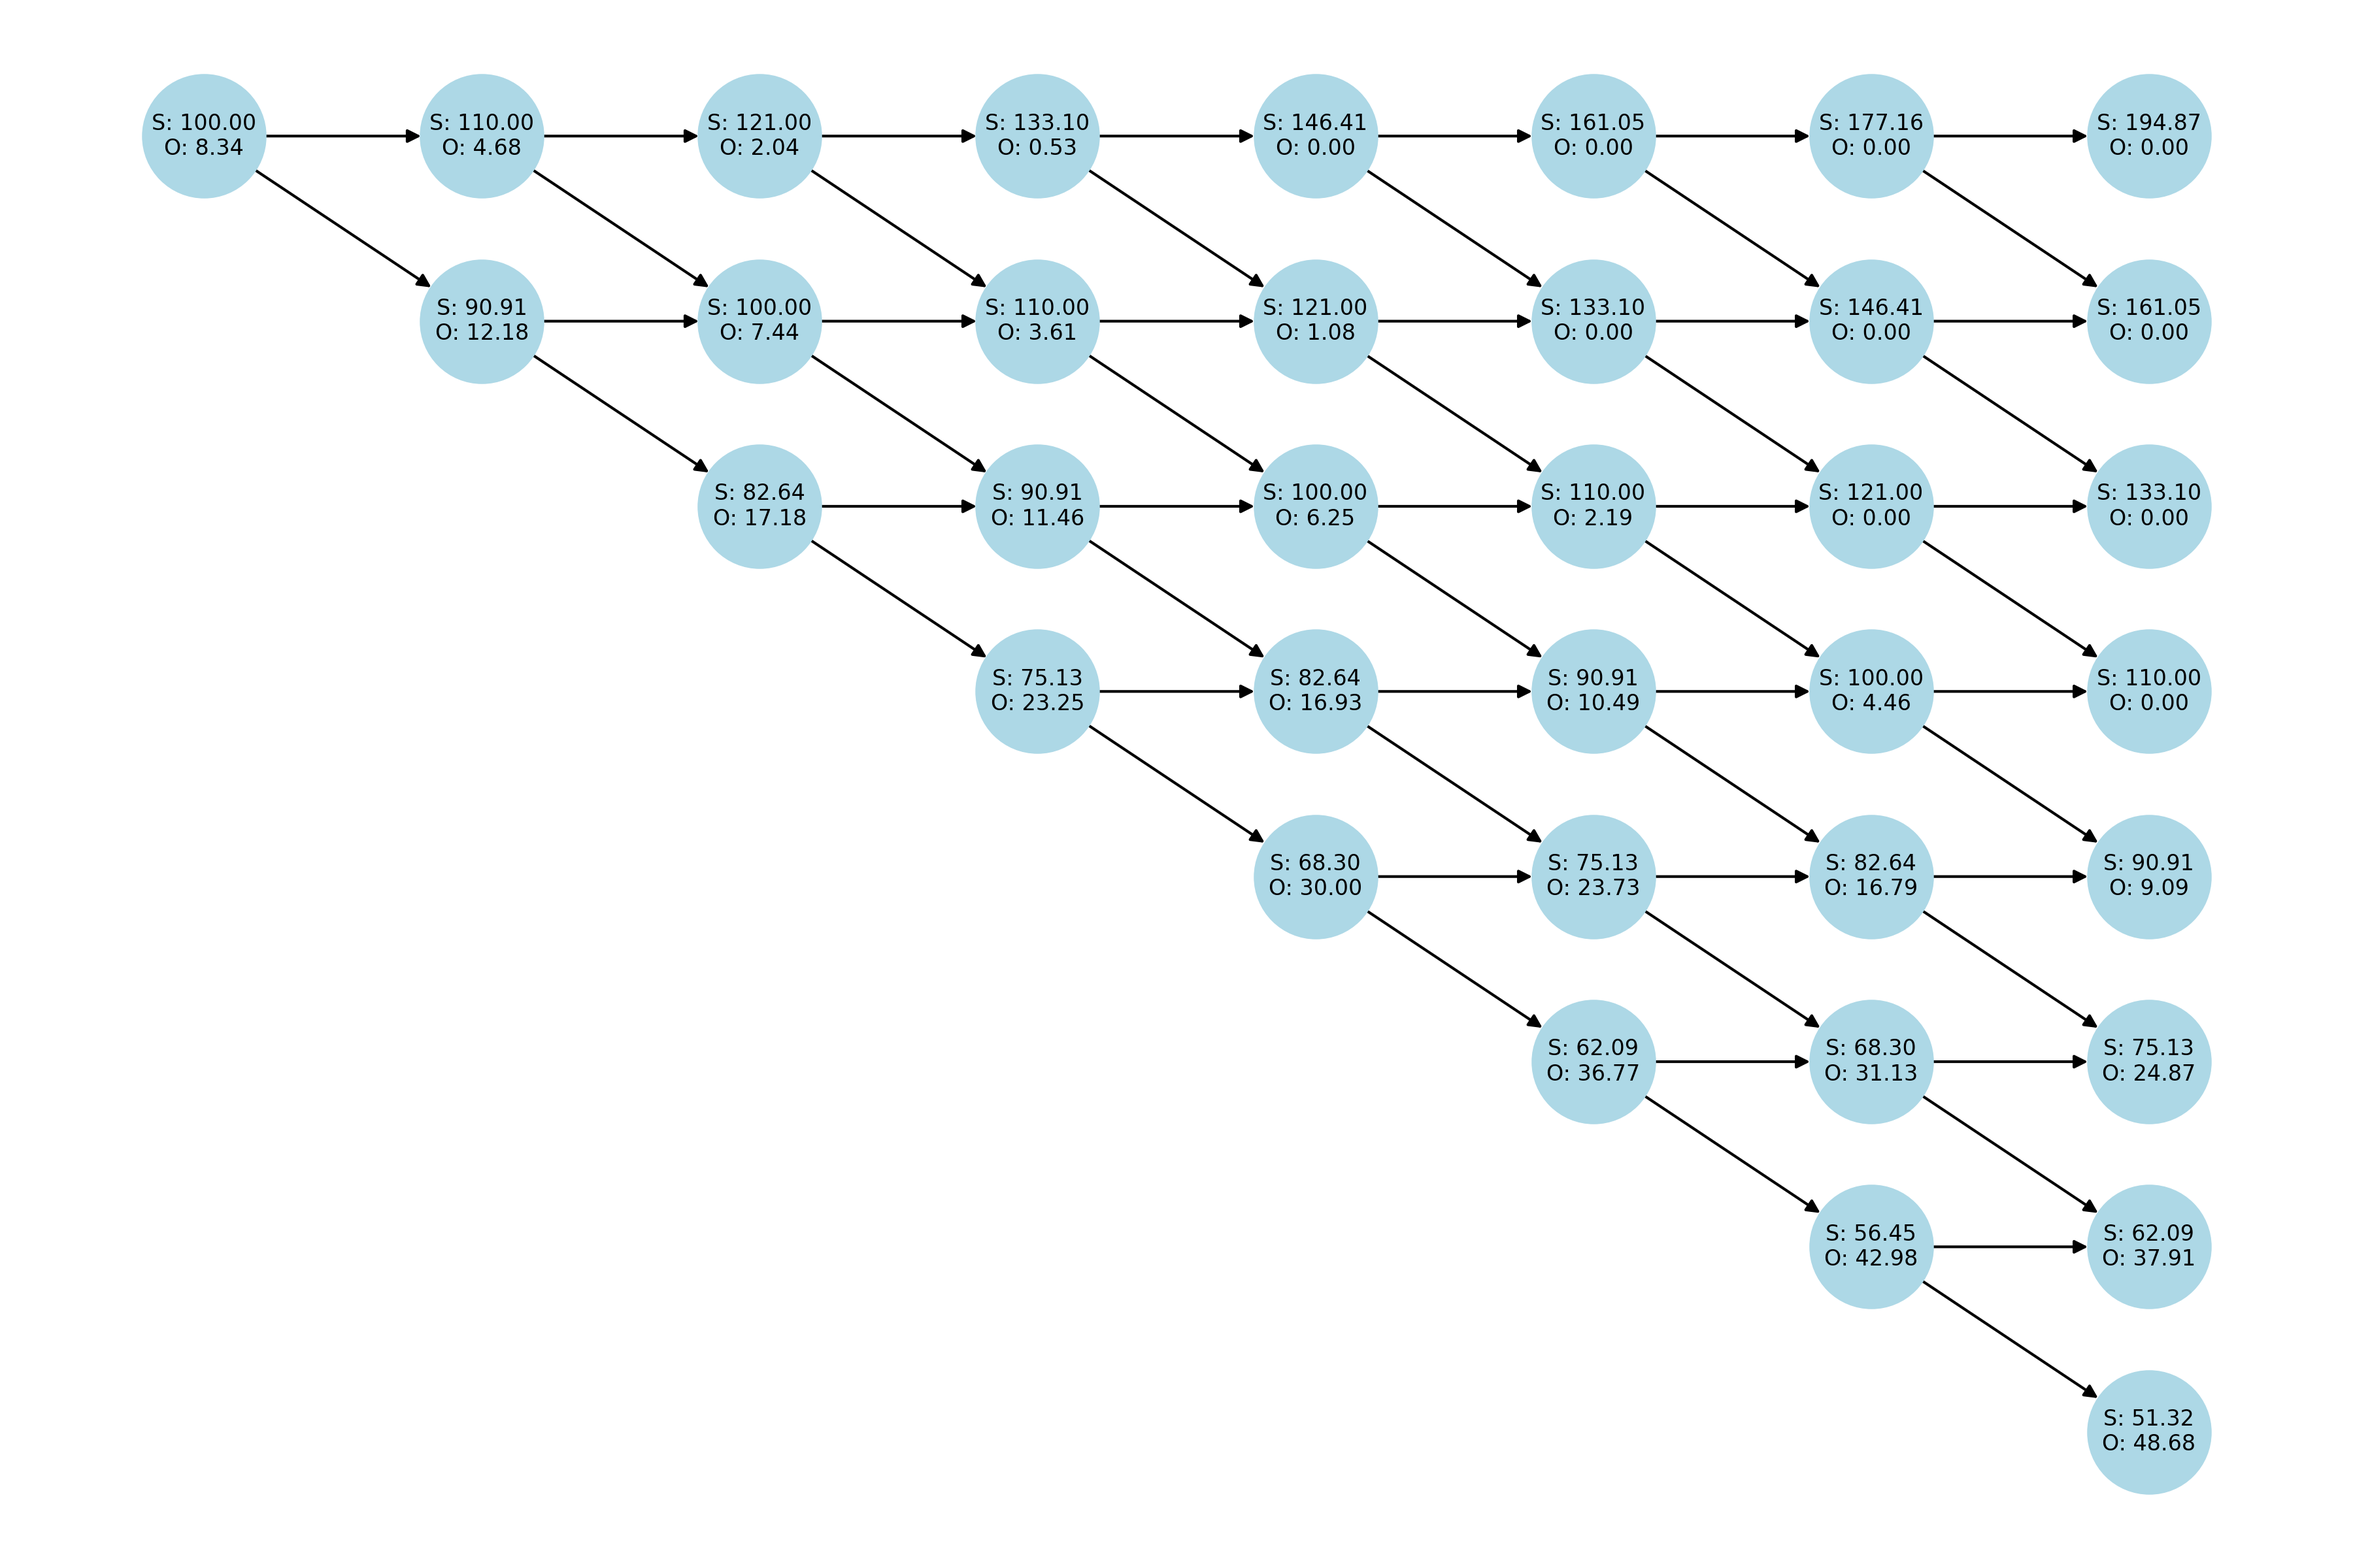
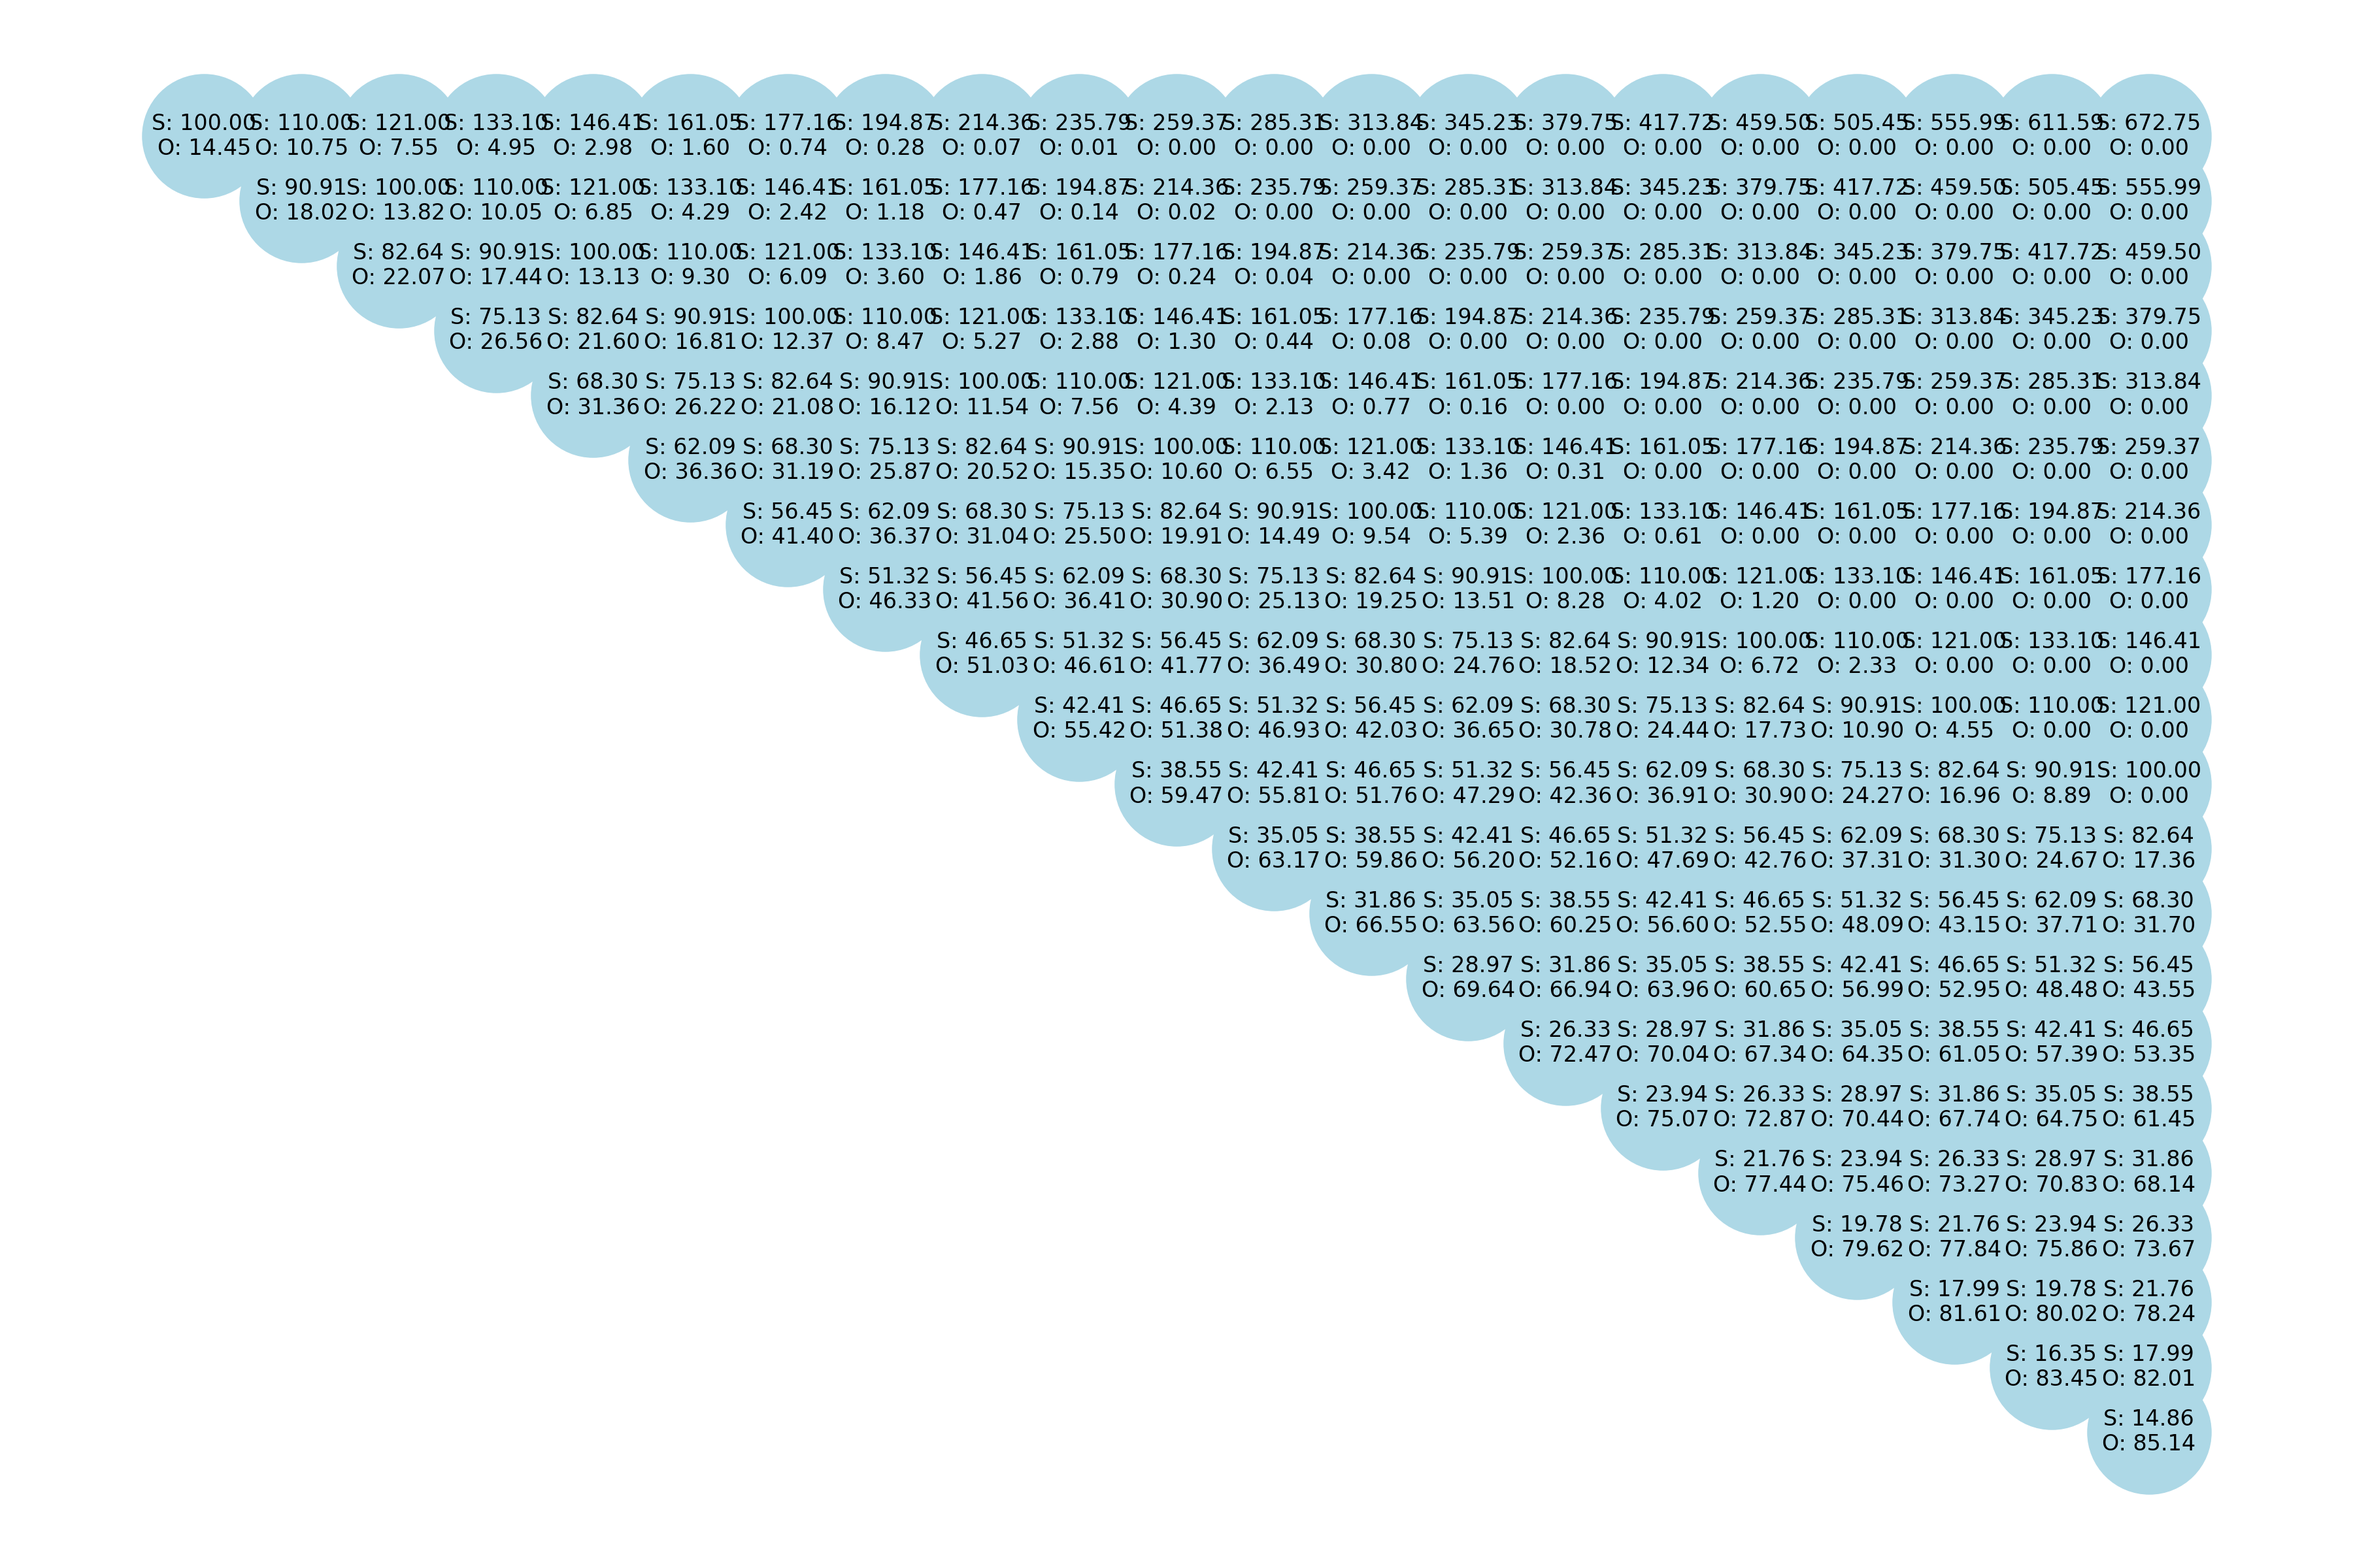
working

diff --git a/fundamentals/test/test_binomial_option_pricing.py b/fundamentals/test/test_binomial_option_pricing.py
@@ -370,7 +370,7 @@ if __name__ == "__main__":
     S0 = 100          # Initial stock price
     K = 100           # Strike price
     r = 0.04          # Annual interest rate
-    N = 7             # Number of periods
+    N = 20             # Number of periods
     u = 1.1           # Up factor
     d = 1/u           # Down factor
     option_type = 'p' # Put option
